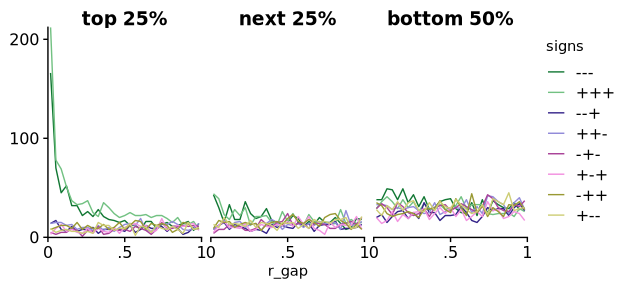
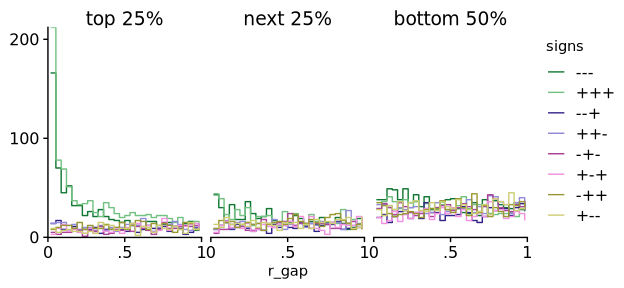
Switch to step histogram; improve documentation

diff --git a/README.md b/README.md
@@ -88,7 +88,7 @@ uniformly distributed conditional on the maximum rank:
 ``` r
 with(
   d_B_limma,
-  rank_gap_linehist(
+  rank_gap_stephist(
     t.KS1, t.KS2, t.RT,
     n_max_rank_bins = 4
   )
